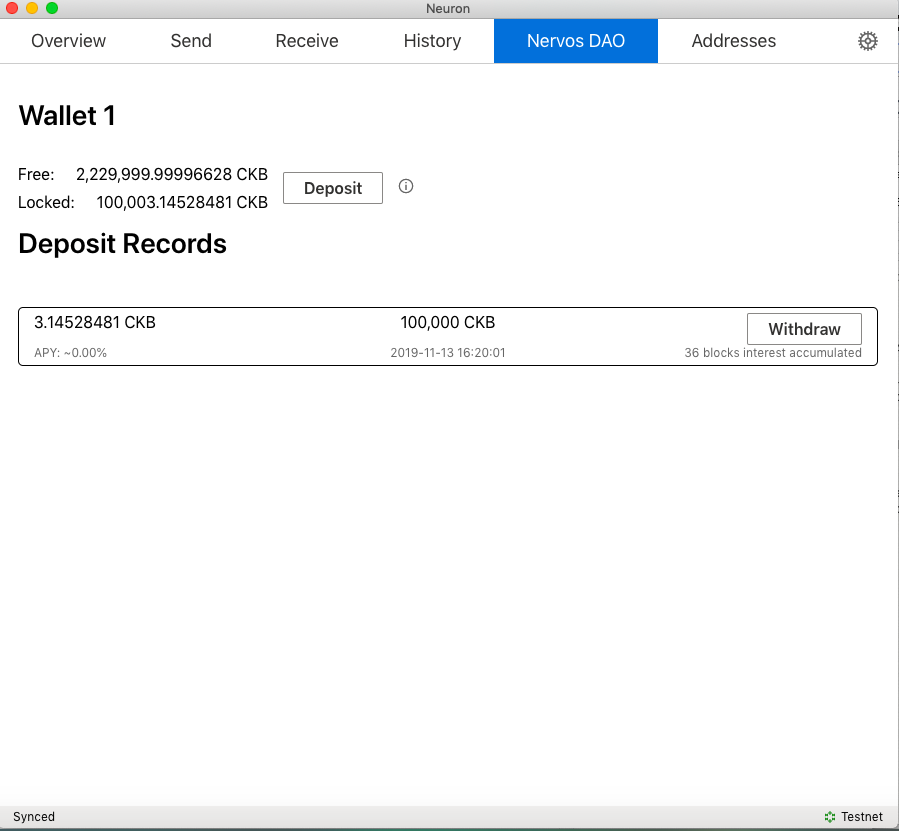
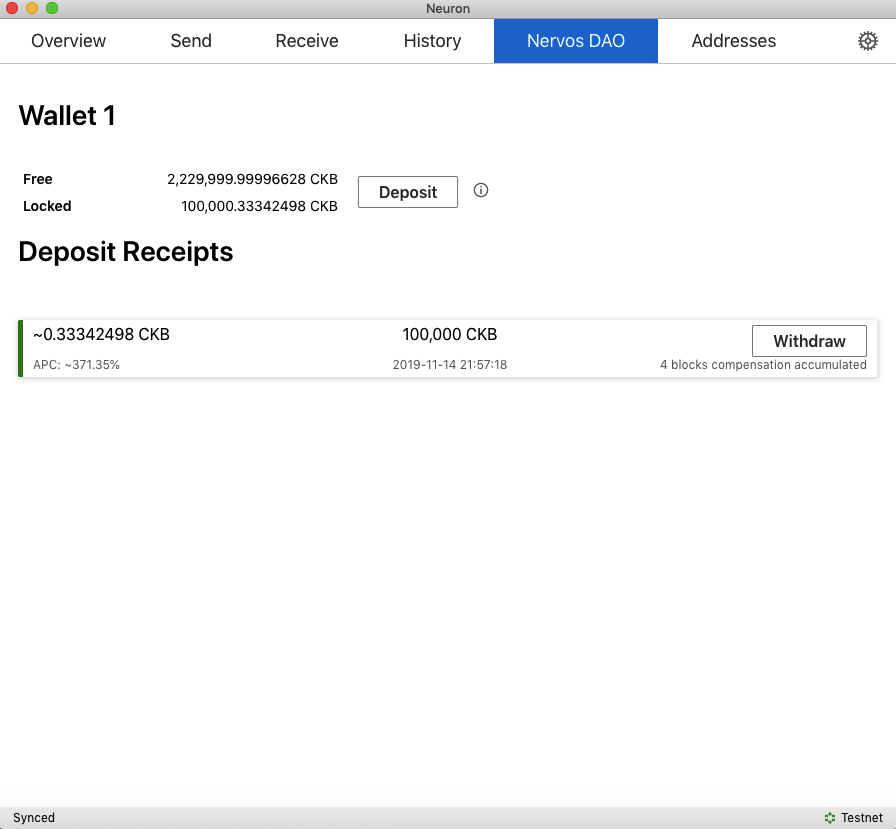
Deploy website
Deploy website version based on 727c4327262c8205a066e6487cc892c3c7e66e08

diff --git a/references/neuron-wallet-guide.html b/references/neuron-wallet-guide.html
@@ -111,14 +111,14 @@
 </ol>
 <p>please note: the directory and folder name must match the commands below</p>
 <p><strong>Mac</strong></p>
-<pre><code class="hljs">`$ cd ckb_v0``.``<span class="hljs-number">25.1</span>``_x86_64``-``apple``-``darwin`
-`$``./``ckb ``--``version`
-`$``./``ckb``-``cli ``--``version`
+<pre><code class="hljs">$ <span class="hljs-keyword">cd</span> ckb_v0.25.1_x86_64-apple-darwin
+$<span class="hljs-string">./ckb</span> <span class="hljs-params">--version</span>
+$<span class="hljs-string">./ckb-cli</span> <span class="hljs-params">--version</span>
 </code></pre>
 <p><strong>Windows</strong></p>
-<pre><code class="hljs">$ cd ckb_v<span class="hljs-number">0</span>.<span class="hljs-number">25.1_</span>x86_64-pc-windows-msvc
-$./ckb --version
-$ <span class="hljs-string">`./`</span><span class="hljs-string">`ckb`</span><span class="hljs-string">`-`</span><span class="hljs-string">`cli `</span><span class="hljs-string">`--`</span><span class="hljs-string">`version `</span>
+<pre><code class="hljs">$ <span class="hljs-keyword">cd</span> ckb_v0.25.1_x86_64-pc-windows-msvc
+$<span class="hljs-string">./ckb</span> <span class="hljs-params">--version</span>
+$ <span class="hljs-string">./ckb-cli</span> <span class="hljs-params">--version</span> 
 </code></pre>
 <p>You should receive the following output confirming the CKB version:</p>
 <p><img src="../assets/neuron-wallet-guide/image3.png" width= "600"/></p>
@@ -127,8 +127,8 @@ $ <span class="hljs-string">`./`</span><span class="hljs-string">`ckb`</span><sp
 <li>To run the CKB node, copy and paste the commands below into the terminal / command line depending on whether you are using Mac or Windows:</li>
 </ul>
 <p><strong>Mac &amp; Windows</strong></p>
-<pre><code class="hljs">`$``./``ckb init ``--``chain mainnet`
-$`./``ckb run`
+<pre><code class="hljs">$<span class="hljs-string">./ckb</span> init <span class="hljs-params">--chain</span> mainnet
+$<span class="hljs-string">./ckb</span> run
 </code></pre>
 <p><img src="../assets/neuron-wallet-guide/image5.png" width = "600"/></p>
 <p><img src="../assets/neuron-wallet-guide/image6.png" width = "600"/></p>
@@ -175,13 +175,15 @@ $`./``ckb run`
 <p><code>Deposit Records</code> will display deposit records’ list，you can click <code>withdraw</code>.</p>
 <p><img src="../assets/neuron-wallet-guide/image18.png" width = "600"/></p>
 <p><img src="../assets/neuron-wallet-guide/image19.png" width = "600"/></p>
+<p>After 4 epochs, will display details.</p>
+<p><img src="../assets/neuron-wallet-guide/image20.png"/></p>
 <h2><a class="anchor" aria-hidden="true" id="how-to-transfer-ckbytes-from-the-neuron-wallet-to-other-wallets-and-exchanges"></a><a href="#how-to-transfer-ckbytes-from-the-neuron-wallet-to-other-wallets-and-exchanges" aria-hidden="true" class="hash-link"><svg class="hash-link-icon" aria-hidden="true" height="16" version="1.1" viewBox="0 0 16 16" width="16"><path fill-rule="evenodd" d="M4 9h1v1H4c-1.5 0-3-1.69-3-3.5S2.55 3 4 3h4c1.45 0 3 1.69 3 3.5 0 1.41-.91 2.72-2 3.25V8.59c.58-.45 1-1.27 1-2.09C10 5.22 8.98 4 8 4H4c-.98 0-2 1.22-2 2.5S3 9 4 9zm9-3h-1v1h1c1 0 2 1.22 2 2.5S13.98 12 13 12H9c-.98 0-2-1.22-2-2.5 0-.83.42-1.64 1-2.09V6.25c-1.09.53-2 1.84-2 3.25C6 11.31 7.55 13 9 13h4c1.45 0 3-1.69 3-3.5S14.5 6 13 6z"></path></svg></a>How to transfer CKBytes from the Neuron Wallet to other wallets and exchanges</h2>
 <p><strong>Please read the disclaimer below before transacting on mainnet</strong></p>
 <p>You should have the third party wallet/exchange destination address. <strong>Please make sure your balance is greater than 62 CKB.</strong></p>
 <ul>
 <li>Under the “Send” tab, fill in the address details in the &quot;Send to&quot; field. Turn on the &quot;Advanced fee settings&quot; and fill in the &quot;Transaction fee&quot; — click  the &quot;Send&quot; button to complete your transfer.</li>
 </ul>
-<p><img src="../assets/neuron-wallet-guide/image20.png" width = "600"/></p>
+<p><img src="../assets/neuron-wallet-guide/image21.png" width = "600"/></p>
 <h1><a class="anchor" aria-hidden="true" id="disclaimer"></a><a href="#disclaimer" aria-hidden="true" class="hash-link"><svg class="hash-link-icon" aria-hidden="true" height="16" version="1.1" viewBox="0 0 16 16" width="16"><path fill-rule="evenodd" d="M4 9h1v1H4c-1.5 0-3-1.69-3-3.5S2.55 3 4 3h4c1.45 0 3 1.69 3 3.5 0 1.41-.91 2.72-2 3.25V8.59c.58-.45 1-1.27 1-2.09C10 5.22 8.98 4 8 4H4c-.98 0-2 1.22-2 2.5S3 9 4 9zm9-3h-1v1h1c1 0 2 1.22 2 2.5S13.98 12 13 12H9c-.98 0-2-1.22-2-2.5 0-.83.42-1.64 1-2.09V6.25c-1.09.53-2 1.84-2 3.25C6 11.31 7.55 13 9 13h4c1.45 0 3-1.69 3-3.5S14.5 6 13 6z"></path></svg></a>*Disclaimer</h1>
 <p>The bootstrapping of a proof-of-work (PoW) chain is difficult. A new PoW chain is in many ways like a newborn baby — weak in the beginning, but with unlimited potential when mature.</p>
 <p>For a new PoW chain, risks may come from:</p>

diff --git a/references/neuron-wallet-guide/index.html b/references/neuron-wallet-guide/index.html
@@ -111,14 +111,14 @@
 </ol>
 <p>please note: the directory and folder name must match the commands below</p>
 <p><strong>Mac</strong></p>
-<pre><code class="hljs">`$ cd ckb_v0``.``<span class="hljs-number">25.1</span>``_x86_64``-``apple``-``darwin`
-`$``./``ckb ``--``version`
-`$``./``ckb``-``cli ``--``version`
+<pre><code class="hljs">$ <span class="hljs-keyword">cd</span> ckb_v0.25.1_x86_64-apple-darwin
+$<span class="hljs-string">./ckb</span> <span class="hljs-params">--version</span>
+$<span class="hljs-string">./ckb-cli</span> <span class="hljs-params">--version</span>
 </code></pre>
 <p><strong>Windows</strong></p>
-<pre><code class="hljs">$ cd ckb_v<span class="hljs-number">0</span>.<span class="hljs-number">25.1_</span>x86_64-pc-windows-msvc
-$./ckb --version
-$ <span class="hljs-string">`./`</span><span class="hljs-string">`ckb`</span><span class="hljs-string">`-`</span><span class="hljs-string">`cli `</span><span class="hljs-string">`--`</span><span class="hljs-string">`version `</span>
+<pre><code class="hljs">$ <span class="hljs-keyword">cd</span> ckb_v0.25.1_x86_64-pc-windows-msvc
+$<span class="hljs-string">./ckb</span> <span class="hljs-params">--version</span>
+$ <span class="hljs-string">./ckb-cli</span> <span class="hljs-params">--version</span> 
 </code></pre>
 <p>You should receive the following output confirming the CKB version:</p>
 <p><img src="../assets/neuron-wallet-guide/image3.png" width= "600"/></p>
@@ -127,8 +127,8 @@ $ <span class="hljs-string">`./`</span><span class="hljs-string">`ckb`</span><sp
 <li>To run the CKB node, copy and paste the commands below into the terminal / command line depending on whether you are using Mac or Windows:</li>
 </ul>
 <p><strong>Mac &amp; Windows</strong></p>
-<pre><code class="hljs">`$``./``ckb init ``--``chain mainnet`
-$`./``ckb run`
+<pre><code class="hljs">$<span class="hljs-string">./ckb</span> init <span class="hljs-params">--chain</span> mainnet
+$<span class="hljs-string">./ckb</span> run
 </code></pre>
 <p><img src="../assets/neuron-wallet-guide/image5.png" width = "600"/></p>
 <p><img src="../assets/neuron-wallet-guide/image6.png" width = "600"/></p>
@@ -175,13 +175,15 @@ $`./``ckb run`
 <p><code>Deposit Records</code> will display deposit records’ list，you can click <code>withdraw</code>.</p>
 <p><img src="../assets/neuron-wallet-guide/image18.png" width = "600"/></p>
 <p><img src="../assets/neuron-wallet-guide/image19.png" width = "600"/></p>
+<p>After 4 epochs, will display details.</p>
+<p><img src="../assets/neuron-wallet-guide/image20.png"/></p>
 <h2><a class="anchor" aria-hidden="true" id="how-to-transfer-ckbytes-from-the-neuron-wallet-to-other-wallets-and-exchanges"></a><a href="#how-to-transfer-ckbytes-from-the-neuron-wallet-to-other-wallets-and-exchanges" aria-hidden="true" class="hash-link"><svg class="hash-link-icon" aria-hidden="true" height="16" version="1.1" viewBox="0 0 16 16" width="16"><path fill-rule="evenodd" d="M4 9h1v1H4c-1.5 0-3-1.69-3-3.5S2.55 3 4 3h4c1.45 0 3 1.69 3 3.5 0 1.41-.91 2.72-2 3.25V8.59c.58-.45 1-1.27 1-2.09C10 5.22 8.98 4 8 4H4c-.98 0-2 1.22-2 2.5S3 9 4 9zm9-3h-1v1h1c1 0 2 1.22 2 2.5S13.98 12 13 12H9c-.98 0-2-1.22-2-2.5 0-.83.42-1.64 1-2.09V6.25c-1.09.53-2 1.84-2 3.25C6 11.31 7.55 13 9 13h4c1.45 0 3-1.69 3-3.5S14.5 6 13 6z"></path></svg></a>How to transfer CKBytes from the Neuron Wallet to other wallets and exchanges</h2>
 <p><strong>Please read the disclaimer below before transacting on mainnet</strong></p>
 <p>You should have the third party wallet/exchange destination address. <strong>Please make sure your balance is greater than 62 CKB.</strong></p>
 <ul>
 <li>Under the “Send” tab, fill in the address details in the &quot;Send to&quot; field. Turn on the &quot;Advanced fee settings&quot; and fill in the &quot;Transaction fee&quot; — click  the &quot;Send&quot; button to complete your transfer.</li>
 </ul>
-<p><img src="../assets/neuron-wallet-guide/image20.png" width = "600"/></p>
+<p><img src="../assets/neuron-wallet-guide/image21.png" width = "600"/></p>
 <h1><a class="anchor" aria-hidden="true" id="disclaimer"></a><a href="#disclaimer" aria-hidden="true" class="hash-link"><svg class="hash-link-icon" aria-hidden="true" height="16" version="1.1" viewBox="0 0 16 16" width="16"><path fill-rule="evenodd" d="M4 9h1v1H4c-1.5 0-3-1.69-3-3.5S2.55 3 4 3h4c1.45 0 3 1.69 3 3.5 0 1.41-.91 2.72-2 3.25V8.59c.58-.45 1-1.27 1-2.09C10 5.22 8.98 4 8 4H4c-.98 0-2 1.22-2 2.5S3 9 4 9zm9-3h-1v1h1c1 0 2 1.22 2 2.5S13.98 12 13 12H9c-.98 0-2-1.22-2-2.5 0-.83.42-1.64 1-2.09V6.25c-1.09.53-2 1.84-2 3.25C6 11.31 7.55 13 9 13h4c1.45 0 3-1.69 3-3.5S14.5 6 13 6z"></path></svg></a>*Disclaimer</h1>
 <p>The bootstrapping of a proof-of-work (PoW) chain is difficult. A new PoW chain is in many ways like a newborn baby — weak in the beginning, but with unlimited potential when mature.</p>
 <p>For a new PoW chain, risks may come from:</p>
